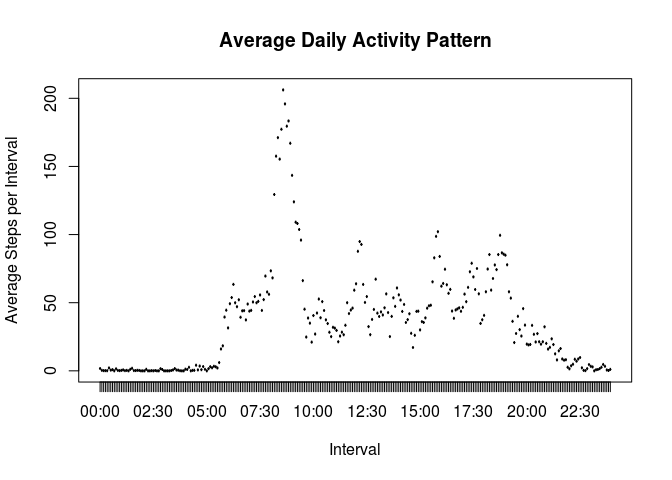
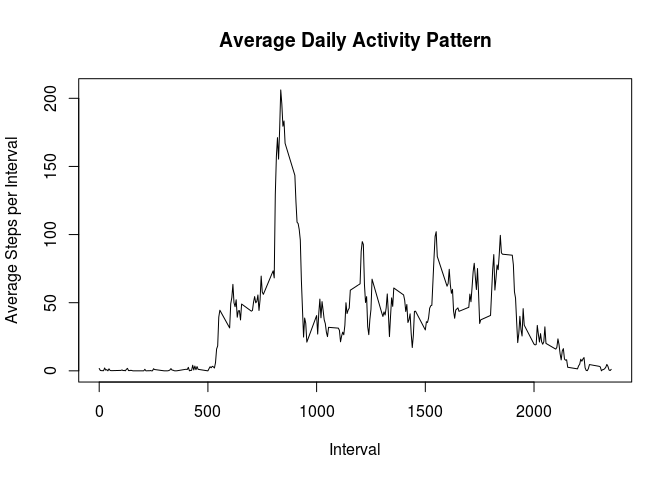
Clean up average steps, formatting

diff --git a/PA1_template.html b/PA1_template.html
@@ -95,35 +95,55 @@ stepsMM</code></pre>
 <h2>What is the average daily activity pattern?</h2>
 <p>Average steps per interval</p>
 <pre class="r"><code># Calulate our averages over intervals ignoring NAs
-avgDailyActivity &lt;- tapply( activityData$steps,
-                            activityData$interval,
-                            FUN=mean,
-                            na.rm=TRUE )
-# Tidy our row names to make the plot easier to read 
-# Intervals should look like 24hr time: 00:00 thru 23:55
-rownames(avgDailyActivity) &lt;- sub('(?&lt;=.{2})', 
-                                  ':', 
-                                  sprintf(&quot;%04d&quot;,as.integer(rownames(avgDailyActivity))), 
-                                  perl=TRUE)
-# Convert to a data frame for plotting
-temp &lt;- data.frame(interval=rownames(avgDailyActivity),average=avgDailyActivity)
-plot(temp, 
-     type=&quot;l&quot;, 
-     main=&quot;Average Daily Activity Pattern&quot;, 
-     xlab =&quot;Interval&quot;, 
-     ylab=&quot;Average Steps per Interval&quot;)</code></pre>
[1 lines of base64/hex data omitted]
+avgDailyActivity &lt;- data.frame(tapply( activityData$steps,
+                                       activityData$interval,
+                                       FUN=mean,
+                                       na.rm=TRUE ))
+avgDailyActivity$interval &lt;-levels(as.factor( activityData$interval))
+colnames(avgDailyActivity) &lt;-c(&quot;Average.Steps&quot;,&quot;Interval&quot;)
+with (avgDailyActivity, plot ( Average.Steps ~ Interval, 
+                               type=&quot;l&quot;, 
+                               main= &quot;Average Daily Activity Pattern&quot;, 
+                               xlab= &quot;Interval&quot;,
+                               ylab = &quot;Average Steps per Interval&quot;)
+)</code></pre>
[1 lines of base64/hex data omitted]
 <p>Interval with the maximum number of steps (on average)</p>
-<pre class="r"><code>print (temp[which.max(temp$average),],row.names=FALSE)</code></pre>
-<pre><code>##  interval  average
-##     08:35 206.1698</code></pre>
+<pre class="r"><code>print (avgDailyActivity[which.max(avgDailyActivity$Average.Steps),],row.names=FALSE)</code></pre>
+<pre><code>##  Average.Steps Interval
+##       206.1698      835</code></pre>
 </div>
 <div id="imputing-missing-values" class="section level2">
 <h2>Imputing missing values</h2>
-<p>Test of project intergration at work</p>
+<p>Find the number of NAs</p>
+<pre class="r"><code>sum(is.na(activityData$steps))</code></pre>
+<pre><code>## [1] 2304</code></pre>
+<p>Imput the values for the NAs</p>
+<pre class="r"><code># Copy the activity to a new data.frame object
+# The NAs will be replaced with the mean value of the all the other 
+# step measurements within the same interval
+newActivityData &lt;- activityData
+newActivityData[is.na(newActivityData$steps),]$steps &lt;- 
+  round(tapply(X=newActivityData$steps,
+               INDEX=newActivityData$interval,
+               FUN=mean,
+               na.rm=TRUE))</code></pre>
+<p>Create a histogram of the the new data calculate the mean and median</p>
+<pre class="r"><code># sum up the total steps per day based on the the new data.frame 
+# with the imputed steps per interval calaulated in the previous step
+newStepsPerDay&lt;-tapply(newActivityData$steps,newActivityData$date,FUN=sum)
+hist(newStepsPerDay,breaks=10, main=&quot;Steps per Day&quot;,xlab=&quot;steps&quot;)</code></pre>
[1 lines of base64/hex data omitted]
+<pre class="r"><code># Calculate the mean and median (all NAs have been imputed)
+newStepsMM &lt;- c(mean(newStepsPerDay),median(newStepsPerDay))
+newStepsMM &lt;- setNames (newStepsMM,c(&quot;Mean&quot;,&quot;Median&quot;))
+newStepsMM</code></pre>
+<pre><code>##     Mean   Median 
+## 10765.64 10762.00</code></pre>
 </div>
 <div id="are-there-differences-in-activity-patterns-between-weekdays-and-weekends" class="section level2">
 <h2>Are there differences in activity patterns between weekdays and weekends?</h2>
+<p>Create a weekday/weekend factor Average number of steps taken, averaged across all weekday days or weekend days</p>
 </div>
 
 

diff --git a/PA1_template.md b/PA1_template.md
@@ -52,24 +52,18 @@ Average steps per interval
 
 ```r
 # Calulate our averages over intervals ignoring NAs
-avgDailyActivity <- tapply( activityData$steps,
-                            activityData$interval,
-                            FUN=mean,
-                            na.rm=TRUE )
-# Tidy our row names to make the plot easier to read 
-# Intervals should look like 24hr time: 00:00 thru 23:55
-rownames(avgDailyActivity) <- sub('(?<=.{2})', 
-                                  ':', 
-                                  sprintf("%04d",as.integer(rownames(avgDailyActivity))), 
-                                  perl=TRUE)
-# Convert to a data frame for plotting
-temp <- data.frame(interval=rownames(avgDailyActivity),average=avgDailyActivity)
-#plot(average ~ interval,data = temp, type = "l")
-plot(temp, 
-     type="l", 
-    main="Average Daily Activity Pattern", 
-    xlab ="Interval", 
-     ylab="Average Steps per Interval")
+avgDailyActivity <- data.frame(tapply( activityData$steps,
+                                       activityData$interval,
+                                       FUN=mean,
+                                       na.rm=TRUE ))
+avgDailyActivity$interval <-levels(as.factor( activityData$interval))
+colnames(avgDailyActivity) <-c("Average.Steps","Interval")
+with (avgDailyActivity, plot ( Average.Steps ~ Interval, 
+                               type="l", 
+                               main= "Average Daily Activity Pattern", 
+                               xlab= "Interval",
+                               ylab = "Average Steps per Interval")
+)
 ```
 
 ![](PA1_template_files/figure-html/averagedailyactivity-1.png) 
@@ -77,12 +71,12 @@ plot(temp,
 Interval with the maximum number of steps (on average)
 
 ```r
-print (temp[which.max(temp$average),],row.names=FALSE)
+print (avgDailyActivity[which.max(avgDailyActivity$Average.Steps),],row.names=FALSE)
 ```
 
 ```
-##  interval  average
-##     08:35 206.1698
+##  Average.Steps Interval
+##       206.1698      835
 ```
 
 ## Imputing missing values
@@ -100,14 +94,23 @@ sum(is.na(activityData$steps))
 Imput the values for the NAs
 
 ```r
+# Copy the activity to a new data.frame object
+# The NAs will be replaced with the mean value of the all the other 
+# step measurements within the same interval
 newActivityData <- activityData
-newActivityData[is.na(newActivityData$steps),]$steps <- round(tapply(X=newActivityData$steps,INDEX=newActivityData$interval,FUN=mean,na.rm=TRUE))
+newActivityData[is.na(newActivityData$steps),]$steps <- 
+  round(tapply(X=newActivityData$steps,
+               INDEX=newActivityData$interval,
+               FUN=mean,
+               na.rm=TRUE))
 ```
 
 Create a histogram of the the new data calculate the mean and median
 
 ```r
-newStepsPerDay<-tapply(activityData$steps,activityData$date,FUN=sum)
+# sum up the total steps per day based on the the new data.frame 
+# with the imputed steps per interval calaulated in the previous step
+newStepsPerDay<-tapply(newActivityData$steps,newActivityData$date,FUN=sum)
 hist(newStepsPerDay,breaks=10, main="Steps per Day",xlab="steps")
 ```
 
@@ -115,15 +118,15 @@ hist(newStepsPerDay,breaks=10, main="Steps per Day",xlab="steps")
 
 
 ```r
-# Remove the NAs while calculating the mean and median
-newStepsMM <- c(mean(newStepsPerDay,na.rm=TRUE),median(newStepsPerDay,na.rm=TRUE))
+# Calculate the mean and median (all NAs have been imputed)
+newStepsMM <- c(mean(newStepsPerDay),median(newStepsPerDay))
 newStepsMM <- setNames (newStepsMM,c("Mean","Median"))
 newStepsMM
 ```
 
 ```
 ##     Mean   Median 
-## 10766.19 10765.00
+## 10765.64 10762.00
 ```
 ## Are there differences in activity patterns between weekdays and weekends?
 
